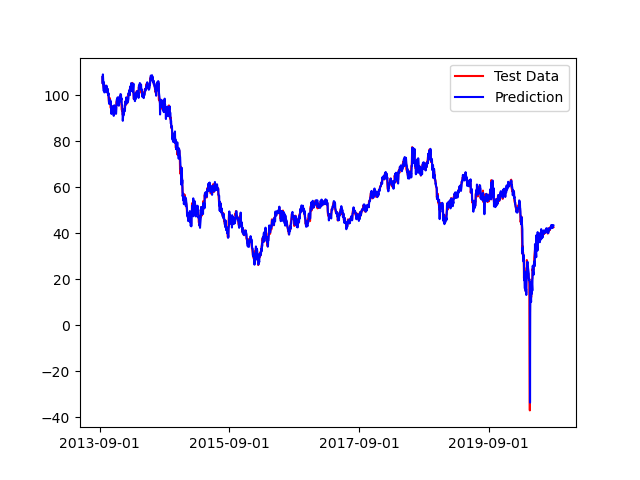
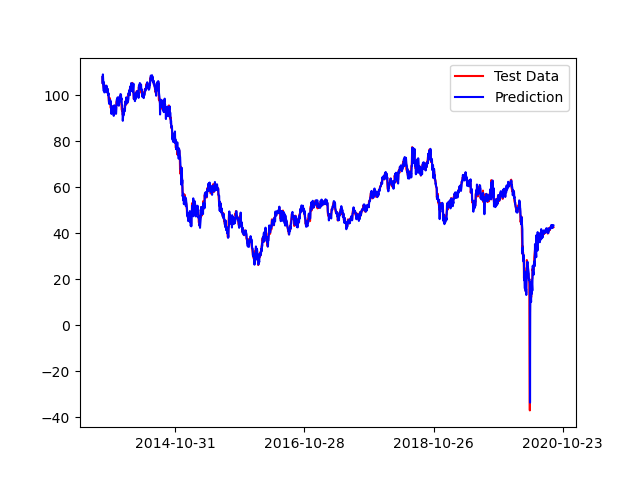
weekly data+ fixed locater

Changed region(s): [[0.0938, 0.9062, 0.9375, 0.9375]]

diff --git a/models/test_rolling_forecast_new.py b/models/test_rolling_forecast_new.py
@@ -114,8 +114,8 @@ evaluate
 # plot formatters
 formatter = mdates.DateFormatter("%Y-%m-%d") # date format for plotting
 #locater = mdates.DayLocator(interval = 180) # for daily data
-#locater = mdates.WeekdayLocator(byweekday = FR, interval = 26 * 4) # weekly
-locater = mdates.MonthLocator(bymonthday = 1, interval = 6 * 4) # monthly
+locater = mdates.WeekdayLocator(byweekday = FR, interval = 26 * 4) # weekly
+#locater = mdates.MonthLocator(bymonthday = 1, interval = 6 * 4) # monthly
 
 
 GKFN.plot_prediction(teY, teYdate, Yest, num_kernels, epoch, formatter, locater)
